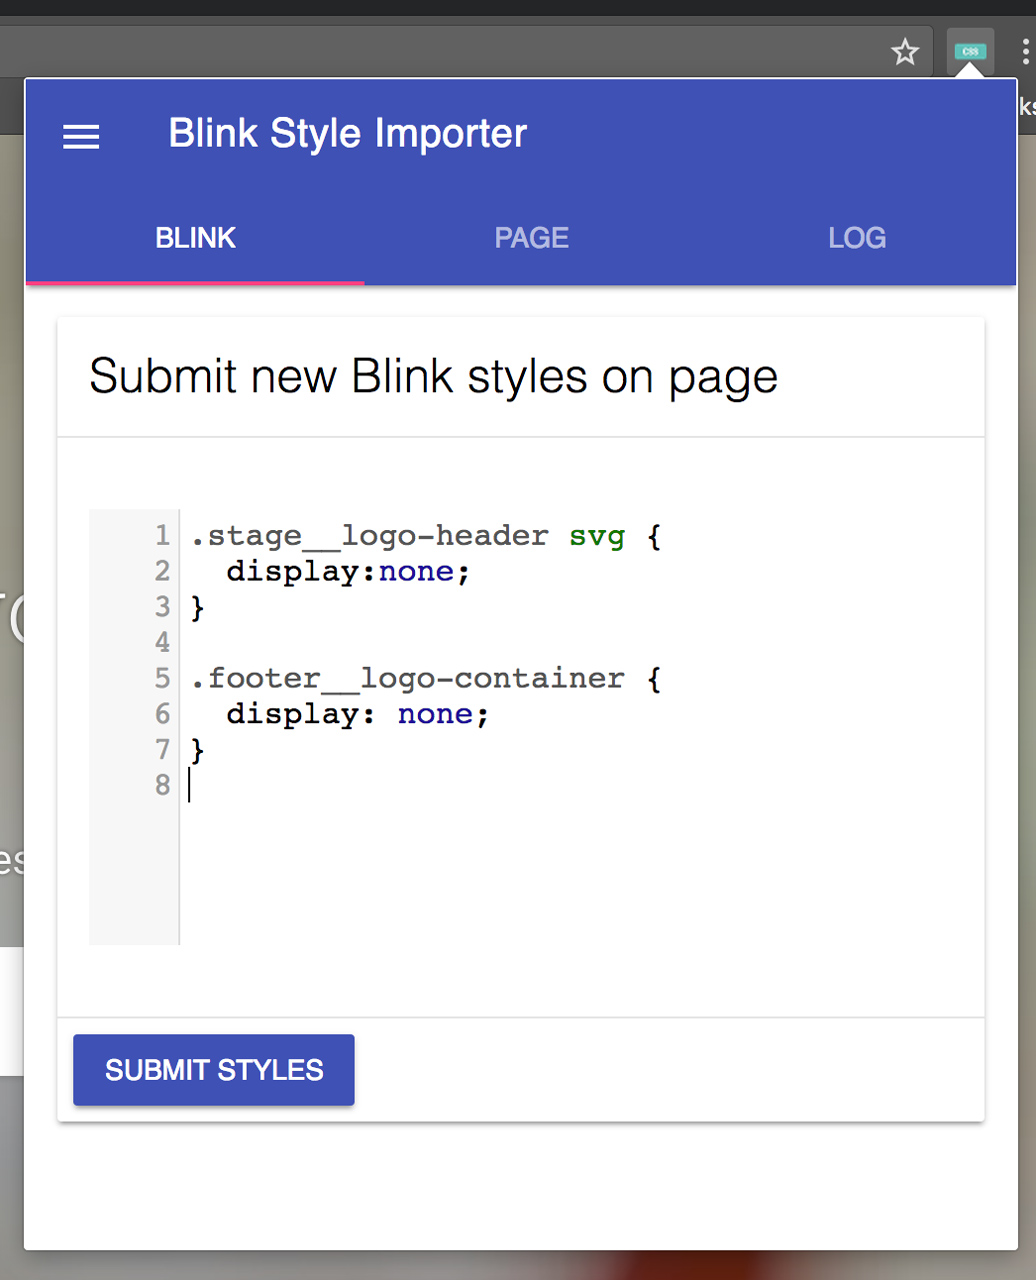
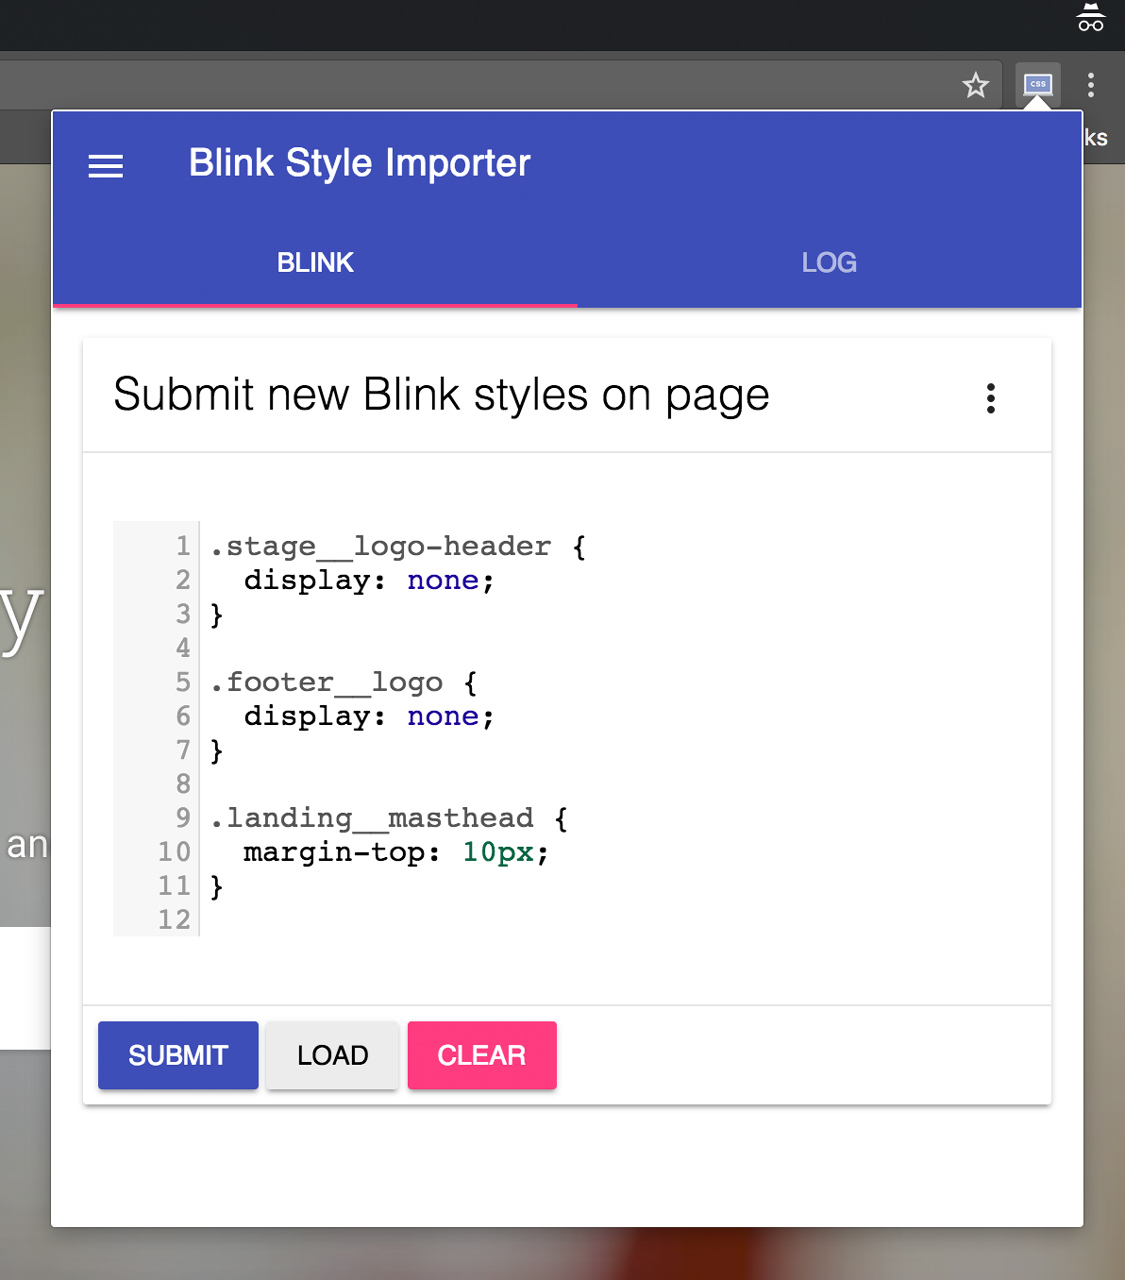
added clear all data, clear only one site, show all data in console, updated screens, more nice code, new version release

diff --git a/src/js/main.js b/src/js/main.js
@@ -1,6 +1,8 @@
 let submitStyles = document.getElementById('submitStyles');
 let clearStyles = document.getElementById('clearStyles');
+let clearCurrentSite = document.getElementById('removeCurrentSite');
 let loadStyles = document.getElementById('loadStyles');
+let loadAllStyles = document.getElementById('showAllStorageData');
 let textAreaLog = document.getElementById('customCsslog');
 let labelForNewCss = document.getElementById('cssStylesLabel');
 let snackbarContainer = document.getElementById('toastLog');
@@ -8,7 +10,7 @@ let textAreaHtml = document.getElementById('cssStylesArea');
 
 let tempData = {};
 
-let saveTempData = (url, styles) =>{
+let saveTempData = (url, styles) => {
 	tempData.url = url;
 	tempData.styles = styles;
 };
@@ -76,21 +78,19 @@ let Blink = {
 			});
 		}
 	},
-	clearOnPage: () => {
-		let blinkStyles = document.getElementById('blinkStyles');
-
+	clearAll: () => {
 		labelForNewCss.innerHTML = 'Send submit for clearing form';
 
 		chrome.tabs.query({active: true, currentWindow: true}, tabs => {
 			let elementUrl = extractHostname(tabs[0].url);
 			chrome.tabs.sendMessage(tabs[0].id, {
-				greeting: "removeData",
+				greeting: "removeAllData",
 				pageUrl: elementUrl
 			}, response => {
 				labelForNewCss.innerHTML = 'Submit new Blink styles on page';
 				notifyMessage('Send data to extension');
 				if (response.success === true) {
-					notifyMessage('Removed current styles');
+					notifyMessage('Removed all styles from storage');
 				}
 				else {
 					notifyMessage('Something wrong');
@@ -98,15 +98,33 @@ let Blink = {
 			});
 		});
 	},
-	loadFromPage: () => {
-		let blinkStyles = document.getElementById('blinkStyles');
-
-		labelForNewCss.innerHTML = 'Sending submit for load Styles';
+	clearThisPage: () => {
+		labelForNewCss.innerHTML = 'Send submit for clearing site form';
 
 		chrome.tabs.query({active: true, currentWindow: true}, tabs => {
 			let elementUrl = extractHostname(tabs[0].url);
 			chrome.tabs.sendMessage(tabs[0].id, {
-				greeting: "loadData",
+				greeting: "removeCurrentData",
+				pageUrl: elementUrl
+			}, response => {
+				labelForNewCss.innerHTML = 'Submit new Blink styles on page';
+				notifyMessage('Send data to extension');
+				if (response.success === true) {
+					notifyMessage('Removed current site styles from storage');
+				}
+				else {
+					notifyMessage('Something wrong');
+				}
+			});
+		});
+	},
+	loadThisPage: () => {
+		labelForNewCss.innerHTML = 'Sending submit for load site Styles';
+
+		chrome.tabs.query({active: true, currentWindow: true}, tabs => {
+			let elementUrl = extractHostname(tabs[0].url);
+			chrome.tabs.sendMessage(tabs[0].id, {
+				greeting: "loadCurrentData",
 				pageUrl: elementUrl
 			}, response => {
 				labelForNewCss.innerHTML = 'Submit new Blink styles on page';
@@ -117,6 +135,24 @@ let Blink = {
 				}
 				else {
 					notifyMessage('No Styles yet');
+				}
+			});
+		});
+	},
+	loadAll: () => {
+		labelForNewCss.innerHTML = 'Sending submit for load all Styles';
+
+		chrome.tabs.query({active: true, currentWindow: true}, tabs => {
+			chrome.tabs.sendMessage(tabs[0].id, {
+				greeting: "loadAllData"
+			}, response => {
+				labelForNewCss.innerHTML = 'Submit new Blink styles on page';
+				notifyMessage('Send data to extension');
+				if (response.success === true) {
+					notifyMessage('Loaded all styles to console');
+				}
+				else {
+					notifyMessage('No Styles data yet');
 				}
 			});
 		});
@@ -131,16 +167,28 @@ submitStyles.addEventListener('click', event => {
 
 clearStyles.addEventListener('click', event => {
 	event.preventDefault();
-	notifyMessage('Sending submit for clear form');
-	Blink.clearOnPage();
+	notifyMessage('Sending submit for clear form and all styles');
+	Blink.clearAll();
+});
+
+clearCurrentSite.addEventListener('click', event => {
+	event.preventDefault();
+	notifyMessage('Sending submit for clear form and site styles');
+	Blink.clearThisPage();
 });
 
 loadStyles.addEventListener('click', event => {
 	event.preventDefault();
 	notifyMessage('Sending submit for load Styles');
-	Blink.loadFromPage();
+	Blink.loadThisPage();
+});
+
+loadAllStyles.addEventListener('click', event => {
+	event.preventDefault();
+	notifyMessage('Sending submit for load all Styles');
+	Blink.loadAll();
 });
 
 chrome.tabs.executeScript(null, {
-	code: Blink.loadFromPage()
+	code: Blink.loadThisPage()
 });

diff --git a/src/index.html b/src/index.html
@@ -30,15 +30,15 @@
 					<div class="mdl-card__actions mdl-card--border">
 						<button class="mdl-button mdl-button--colored mdl-js-button mdl-button--raised mdl-js-ripple-effect"
 						        id="submitStyles" type="submit">
-							Submit styles
+							Submit
 						</button>
 						<button class="mdl-button mdl-js-button mdl-button--raised mdl-js-ripple-effect"
 						        id="loadStyles" type="button">
-							Load page styles
+							Load
 						</button>
 						<button class="mdl-button mdl-js-button mdl-button--raised mdl-js-ripple-effect mdl-button--accent"
-						        type="button">
-							Clear site styles
+						        id="removeCurrentSite" type="button">
+							Clear
 						</button>
 					</div>
 					<div class="mdl-card__menu">
@@ -46,9 +46,8 @@
 							<i class="material-icons">more_vert</i>
 						</button>
 						<ul class="mdl-menu mdl-js-menu mdl-menu--bottom-right" for="btn1">
-							<li id="clearStyles" class="mdl-menu__item">Clear all sites styles</li>
-							<li class="mdl-menu__item" disabled>Other Actions</li>
-							<li class="mdl-menu__item">Dolor</li>
+							<li id="showAllStorageData" class="mdl-menu__item">Show all storage data to console</li>
+							<li id="clearStyles" class="mdl-menu__item">Clear all storage data</li>
 						</ul>
 					</div>
 				</div>

diff --git a/src/faq.html b/src/faq.html
@@ -25,6 +25,8 @@
 					<p>Support for auto close brackets and brackets matching (open - close)</p>
 					<h5>Cloud saves</h5>
 					<p>Need Login in browser, to start use this feature</p>
+					<h5>Cloud show/clear all data</h5>
+					<p>In menu dropdown there is few actions for that</p>
 				</div>
 			</div>
 		</div>

diff --git a/src/readme.md b/src/readme.md
@@ -1,7 +1,7 @@
 ### Blink Style Importer
 Chrome browser extension for adding custom css styles on any page.
 With Material design and code editor.   
-First version will not save data after page reload.
+Support Chrome cloud synchronization for save styles across devices.
 #### Features:
 * Autocomplete
 * CSS Code Linting
@@ -16,7 +16,3 @@ First version will not save data after page reload.
 ![Linting screen](img/screenshots/screen-lint.jpg)
 #####Logs Screen
 ![Log screen](img/screenshots/screen-log.jpg)
-#####Load exist styles
-![Load exist styles screen](img/screenshots/screen-current-styles.jpg)
-#####Side menu
-![Side menu screen](img/screenshots/screen-menu.jpg)

diff --git a/src/changelog.md b/src/changelog.md
@@ -1,3 +1,9 @@
+#0.1.5
+  * Added: context menu dropdown in modal
+  * Added: action to clear all data from storage
+  * Added: action to clear only current data from storage
+  * Added: action to log all storage data to console
+  * Updated screens
 #0.1.1
   * Start rewrite app
   * Now added Chrome synchronization
